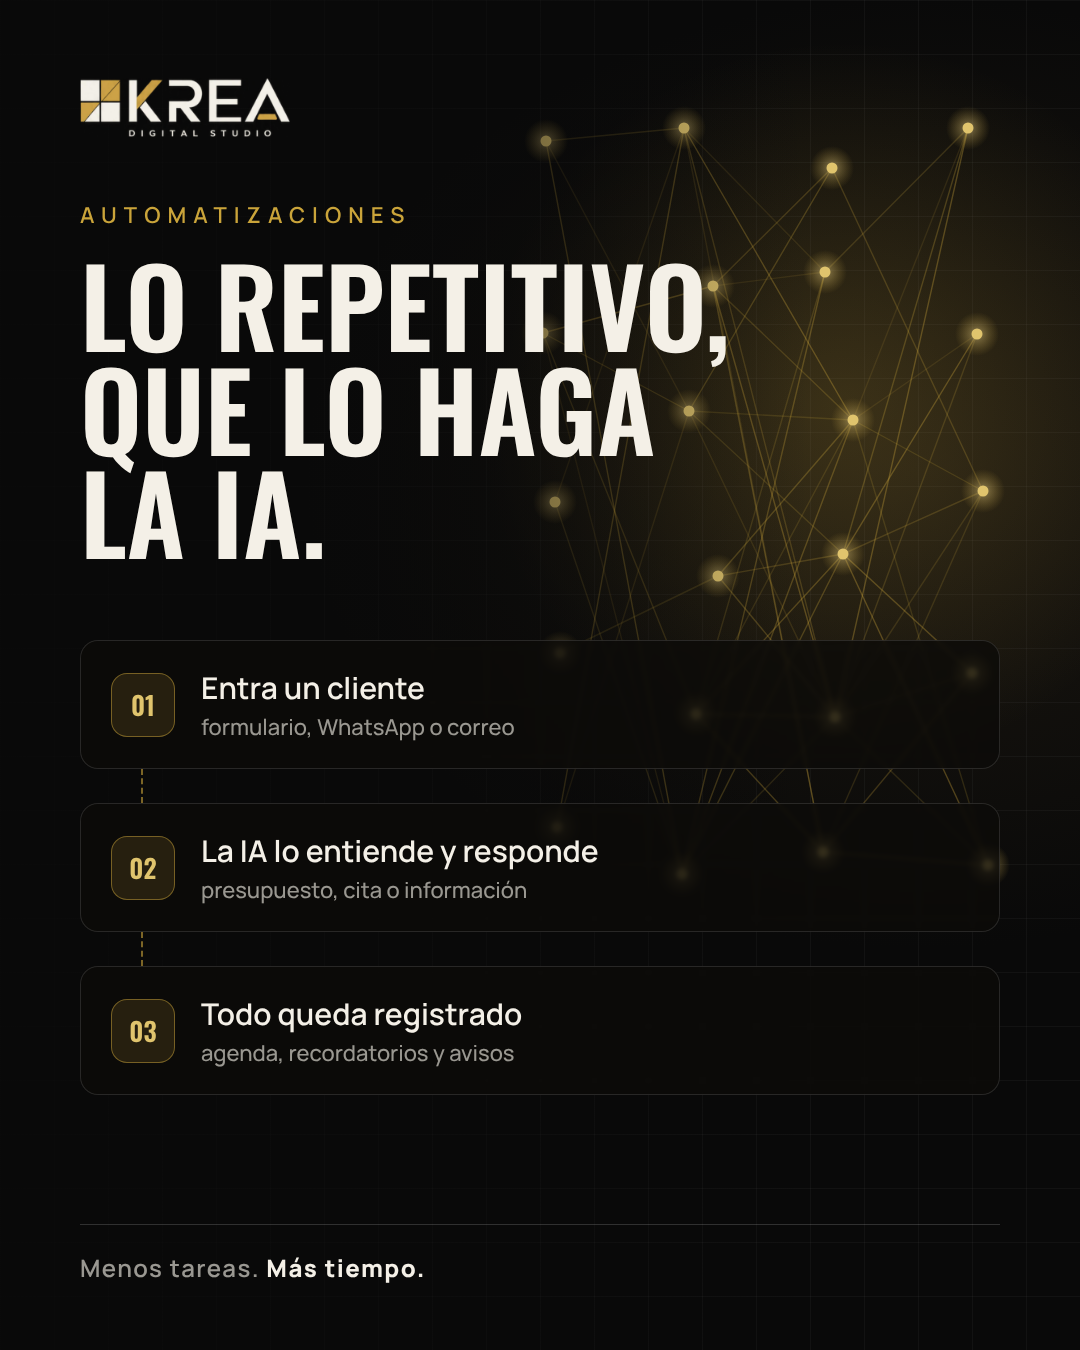
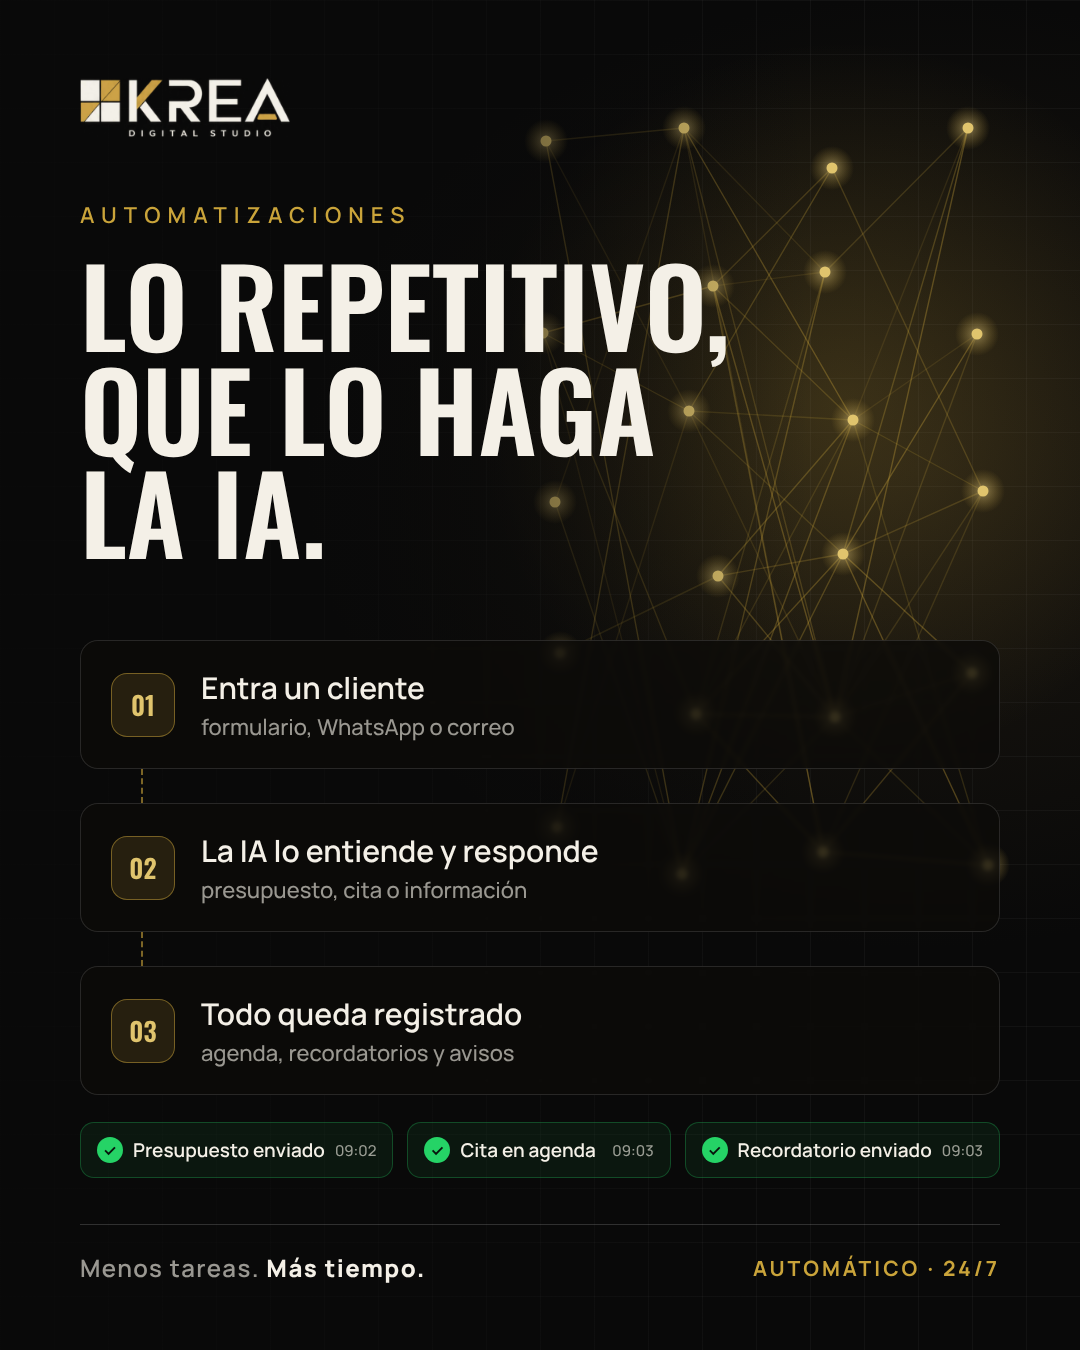
Redes: cartel de automatizaciones con avisos de tareas hechas
Claude-Session: https://claude.ai/code/session_011XVjYd2a9qvWxh1gRjA1Zn

diff --git a/redes/instagram-2026-10/posts.html b/redes/instagram-2026-10/posts.html
@@ -65,6 +65,11 @@ body{background:#333}
 .p3fade{position:absolute;inset:0;background:linear-gradient(90deg,rgba(9,9,9,.92) 0%,rgba(9,9,9,.55) 45%,rgba(9,9,9,0) 75%)}
 #p2 .foot{display:none}
 .p2sub{font:600 22px M;letter-spacing:.08em;color:var(--mut);margin-top:22px}
+.auto{position:absolute;left:80px;right:80px;top:1122px;display:flex;gap:14px;z-index:2}
+.auto span{flex:1;display:flex;align-items:center;gap:10px;padding:14px 16px;border-radius:14px;background:rgba(37,211,102,.07);border:1px solid rgba(37,211,102,.28);font:600 19px M;color:var(--ivory);white-space:nowrap}
+.auto i{font-style:normal;width:26px;height:26px;border-radius:50%;background:#25d366;color:#08140c;display:grid;place-items:center;font:800 15px M;flex:none}
+.auto em{margin-left:auto;font:500 15px M;font-style:normal;color:var(--mut)}
+.tag24{color:var(--gold);font:700 21px M;letter-spacing:.14em;text-transform:uppercase}
 /* 5 apps */
 .ph{position:absolute;width:290px;border-radius:38px;border:8px solid #1d1b17;box-shadow:0 40px 100px rgba(0,0,0,.7)}
 /* 6 marca */
@@ -100,7 +105,8 @@ body{background:#333}
 <div class="step"><i>01</i><div>Entra un cliente<small>formulario, WhatsApp o correo</small></div></div><div class="arrow"></div>
 <div class="step"><i>02</i><div>La IA lo entiende y responde<small>presupuesto, cita o información</small></div></div><div class="arrow"></div>
 <div class="step"><i>03</i><div>Todo queda registrado<small>agenda, recordatorios y avisos</small></div></div></div>
-<div class="foot"><span>Menos tareas. <b>Más tiempo.</b></span><span class="num">03 / 06</span></div></section>
+<div class="auto"><span><i>✓</i>Presupuesto enviado<em>09:02</em></span><span><i>✓</i>Cita en agenda<em>09:03</em></span><span><i>✓</i>Recordatorio enviado<em>09:03</em></span></div>
+<div class="foot"><span>Menos tareas. <b>Más tiempo.</b></span><span class="tag24">Automático · 24/7</span><span class="num">03 / 06</span></div></section>
 
 <section class="p" id="p4"><img class="logo" src="file:///home/user/krea-web/assets/logo-krea-oscuro.webp">
 <div class="txt"><div class="tag">Diseño web</div>
